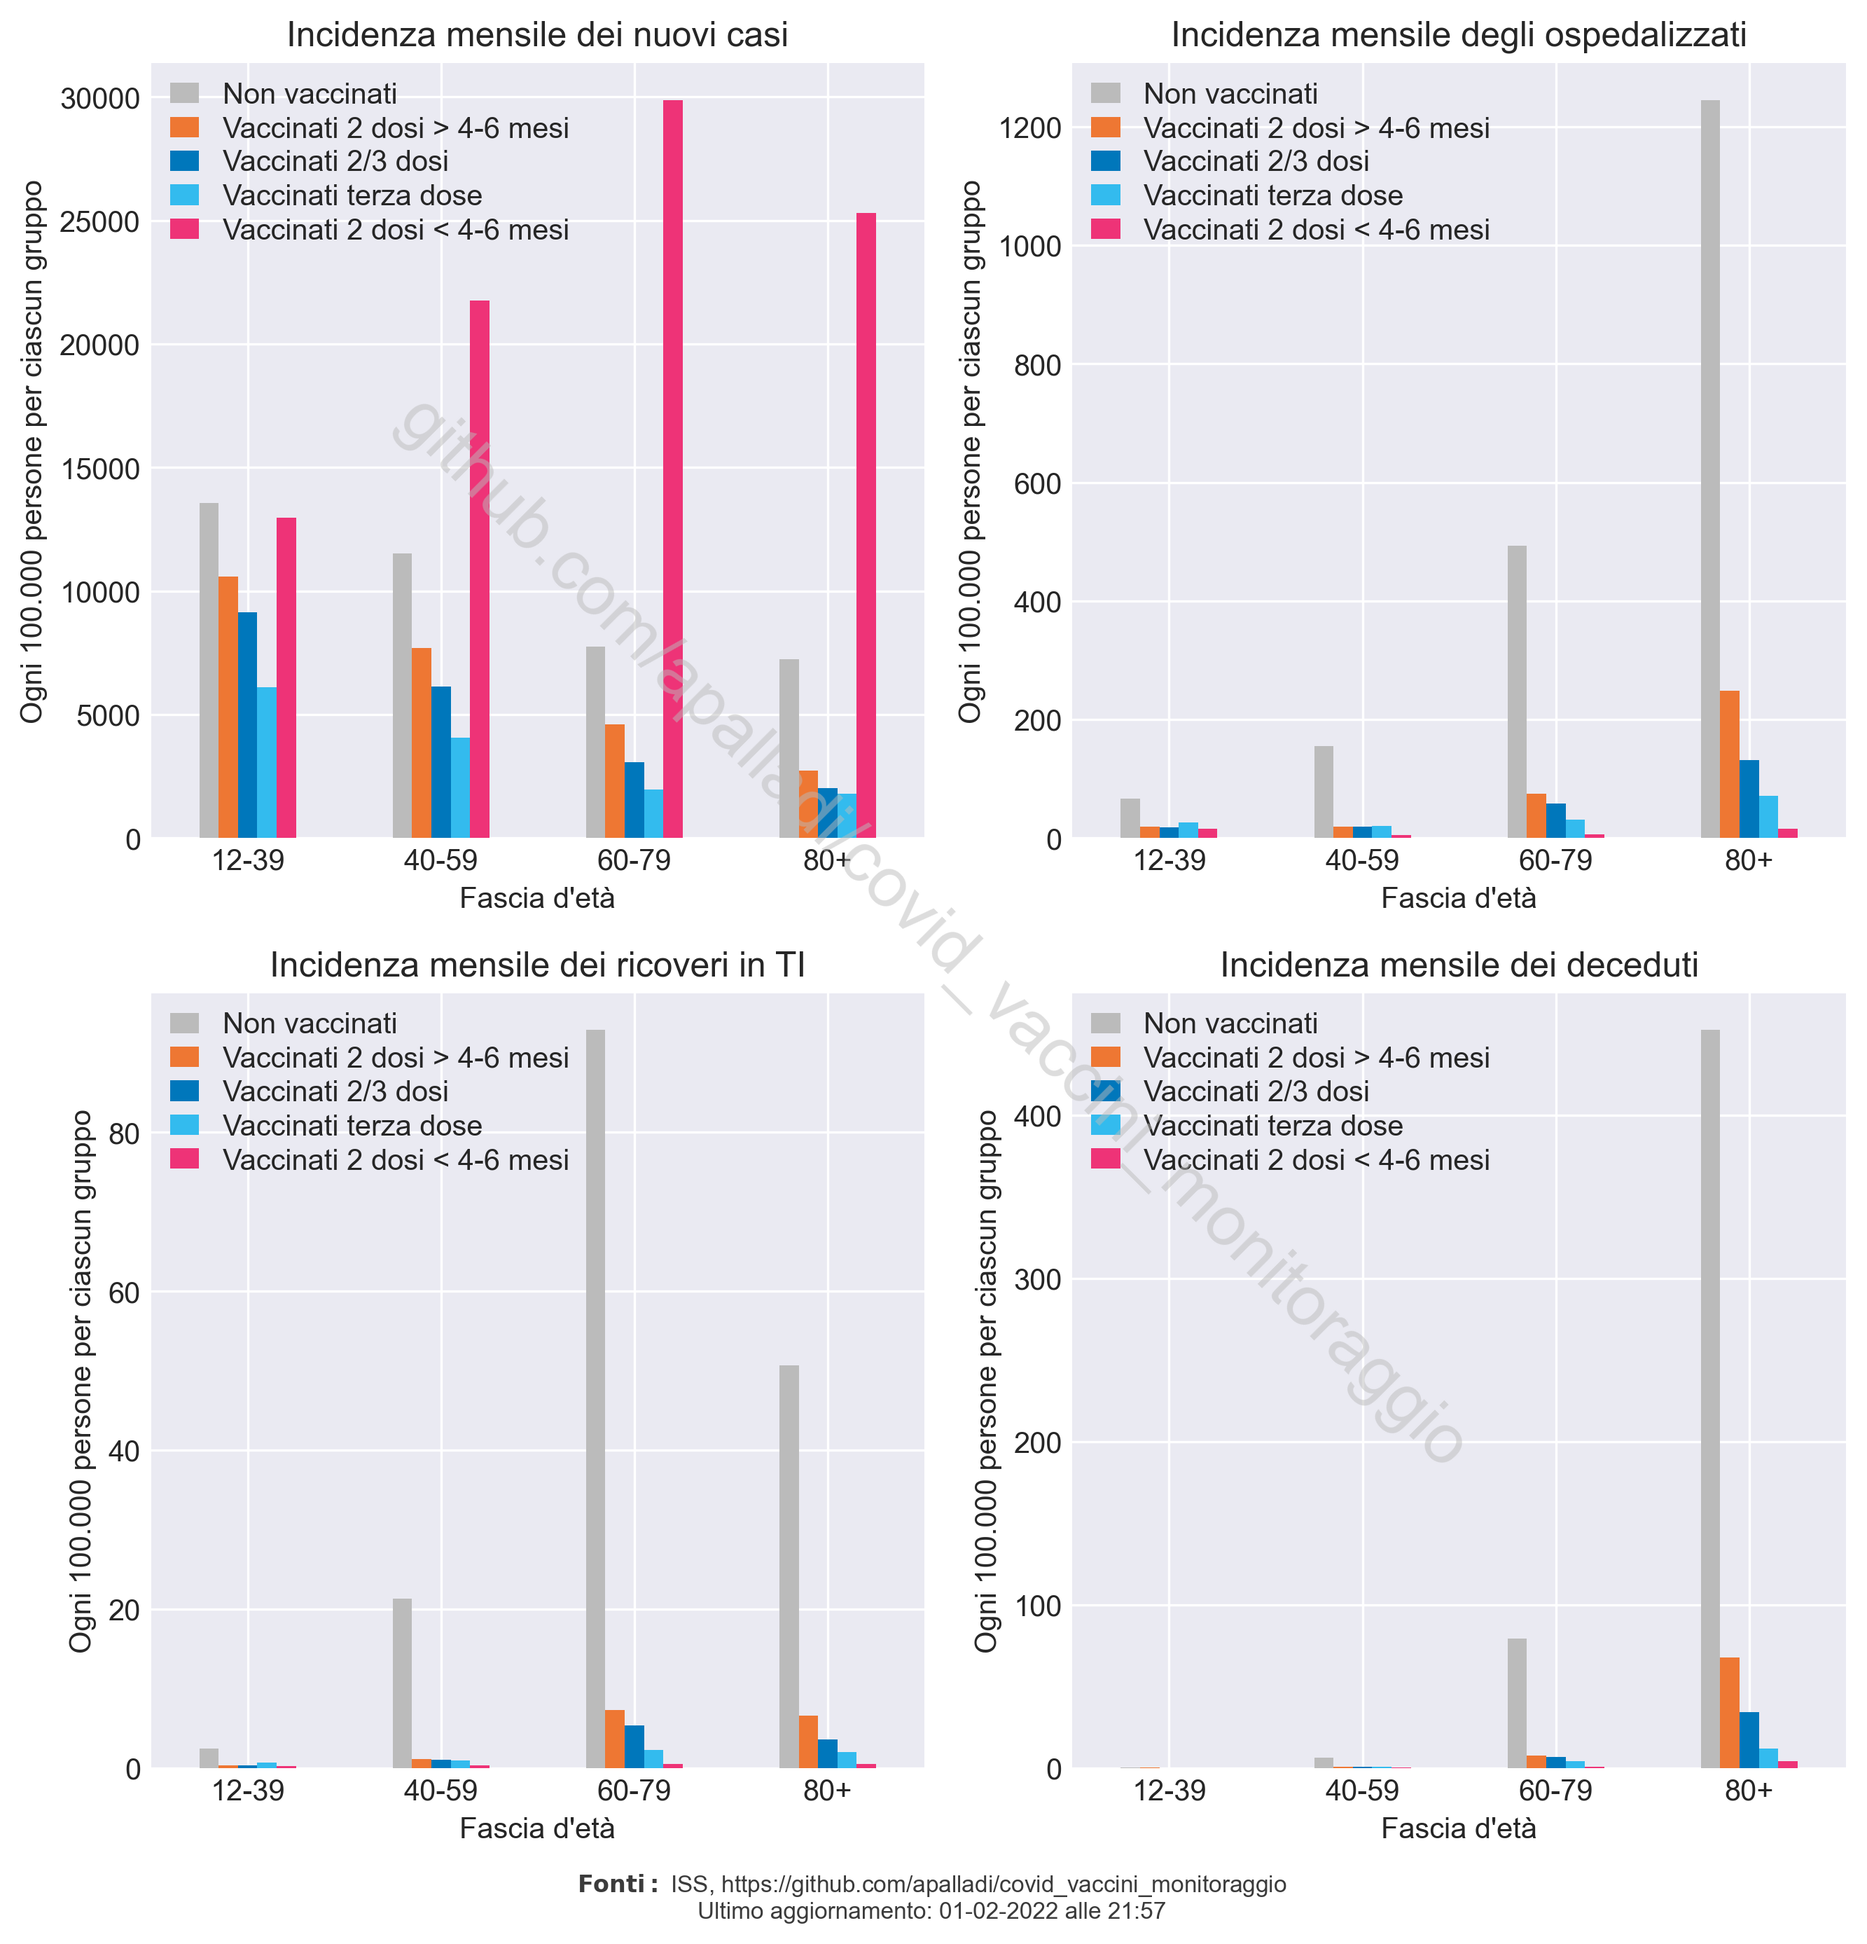
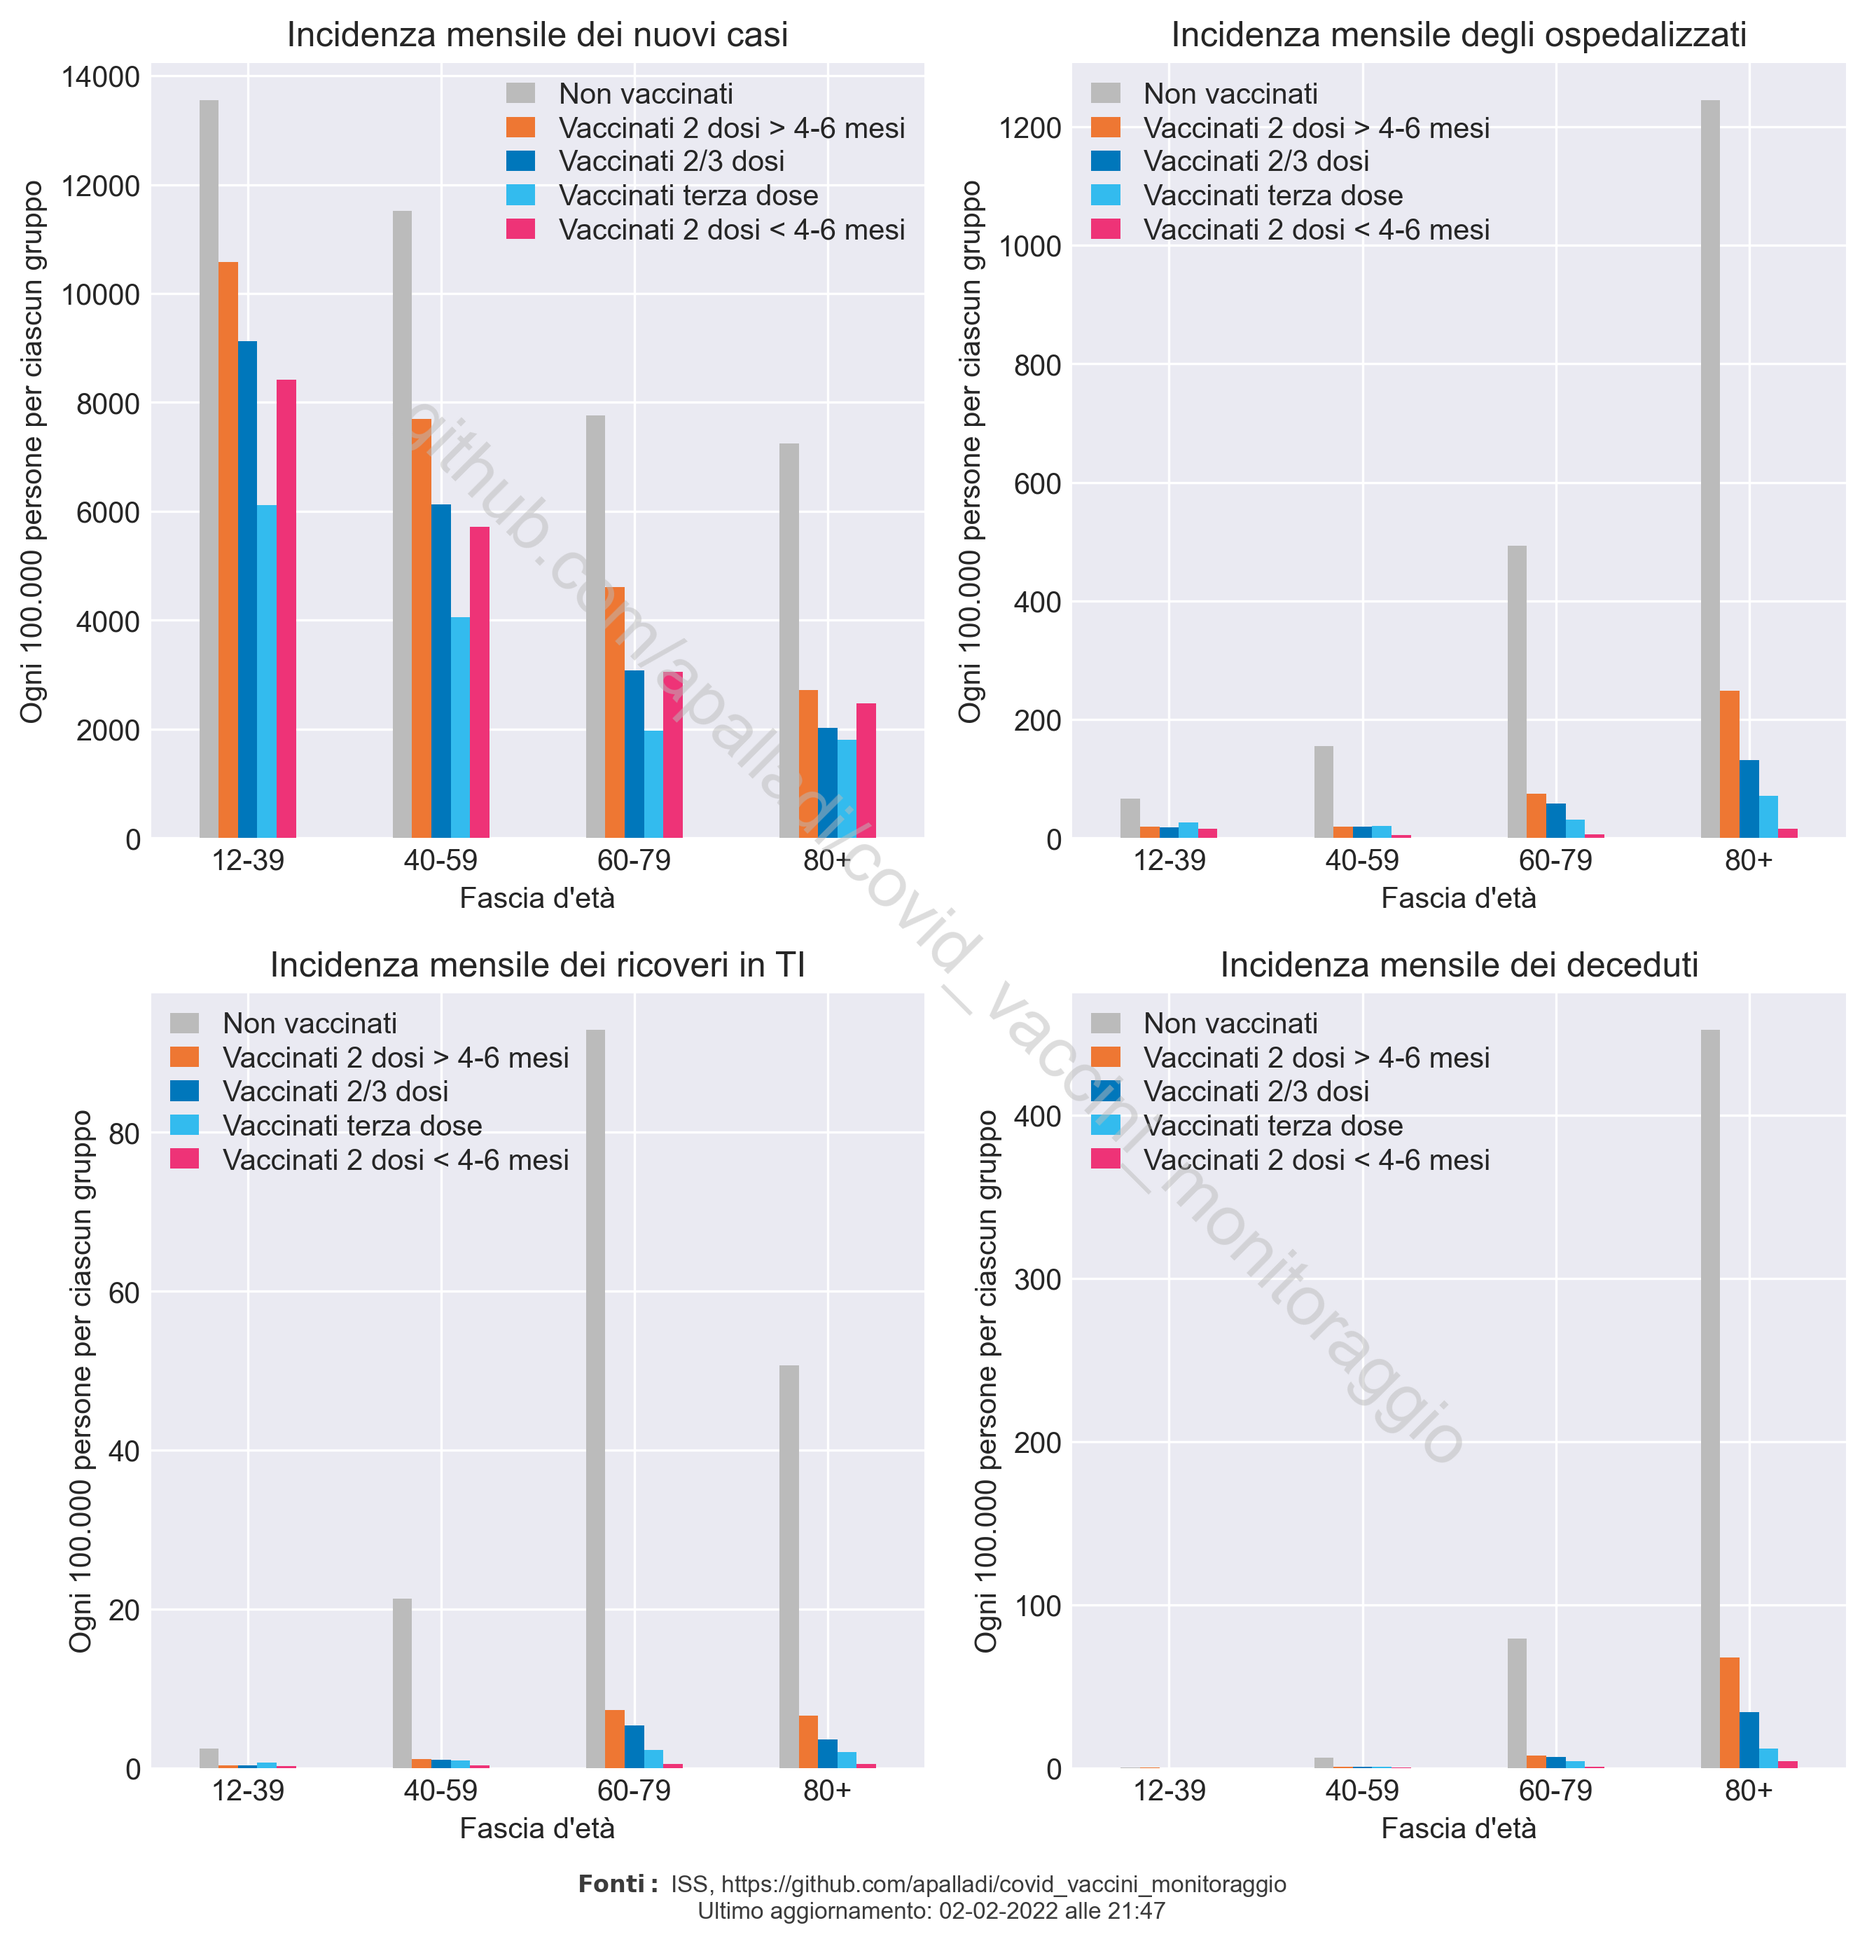
Corretto errore calcolo incidenza casi vaccinati < 4-6 mesi

Changed region(s): [[0.0311, 0.031, 0.4981, 0.4029]]

diff --git a/scripts/custom/preprocessing_dataframe.py b/scripts/custom/preprocessing_dataframe.py
@@ -6,7 +6,7 @@ def compute_incidence(df_epid, df_pop):
     # ricava i tassi dividendo per la popolazione vaccinata e non vaccinata
     tassi = [df_epid["casi non vaccinati"]/df_pop["casi non vaccinati"],
              df_epid["casi vaccinati > 4-6 mesi"]/df_pop["casi vaccinati > 4-6 mesi"],
-             df_epid["casi vaccinati > 4-6 mesi"]/df_pop["casi vaccinati < 4-6 mesi"],
+             df_epid["casi vaccinati < 4-6 mesi"]/df_pop["casi vaccinati < 4-6 mesi"],
              df_epid["casi booster"]/df_pop["casi booster"],
              df_epid["casi vaccinati completo"]/df_pop["casi vaccinati completo"],
              df_epid["ospedalizzati non vaccinati"]/df_pop["ospedalizzati/ti non vaccinati"],
